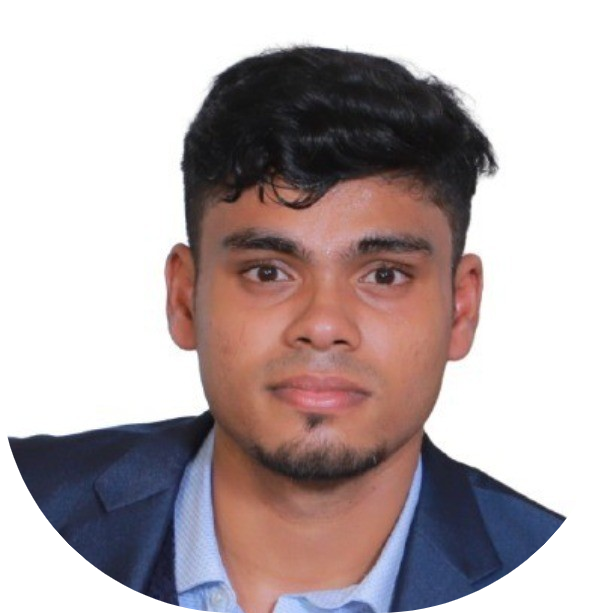
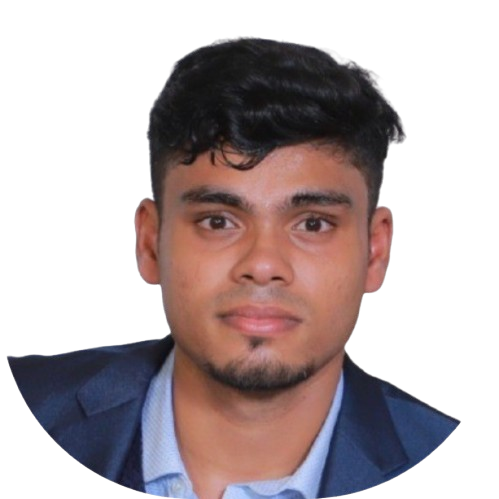
updated files

diff --git a/index.html b/index.html
@@ -20,7 +20,7 @@
       <div class="navbar-nav ms-auto">
         <a class="nav-link active text-white" aria-current="page" href="#summary">Home</a>
         <a class="nav-link text-white" href="#about">About</a>
-        <a class="nav-link text-white" href="#contact">contact</a>
+        <a class="nav-link text-white" href="#contact">Contact</a>
       </div>
     </div>
   </div>
@@ -39,11 +39,11 @@
     <div class="container" id="aboutme">
   <div class="row align-items-center">
     <div class="col-6 ">
-        <h4><b>About Me</b></h4>
+        <h4 style="text-align: center;padding-bottom: 10px;"><b>About Me</b></h4>
         <p style="text-align: justify;">I'm a B.Tech student in Cyber Security and IoT at SRIHER. I have a strong interest in technology and problem-solving, with experience in Android development using Kotlin and Java. I’ve worked on projects like a digital employment exchange platform and sentiment analysis for cybersecurity. I’m currently enhancing my skills in Linux, SQL, and web development.
 </p>
     </div>
-    <div class="col-6">
+    <div class="col-6 px-5">
       <img src="images/image.png" class="img-fluid rounded-3">
     </div>
   </div>
@@ -87,8 +87,7 @@
               <li>Java</li>
               <li>Kotlin</li>
               <li>Python</li>
-              <li>c++</li>
-              <li>Linux</li>
+              <li>C++</li>
             </ul>
           </div>
         </div>
@@ -103,6 +102,7 @@
               <li>Git</li>
               <li>Firebase</li>
               <li>Postman API</li>
+              <li>Linux</li>
             </ul>
           </div>
         </div>

diff --git a/style.css b/style.css
@@ -1,6 +1,6 @@
 
 body{
-    background-image: url(images/wallpaper.jpeg);
+    background-image: url(images/wallpaper.png);
     background-repeat: no-repeat;
     background-size: cover;
     background-attachment: fixed;
